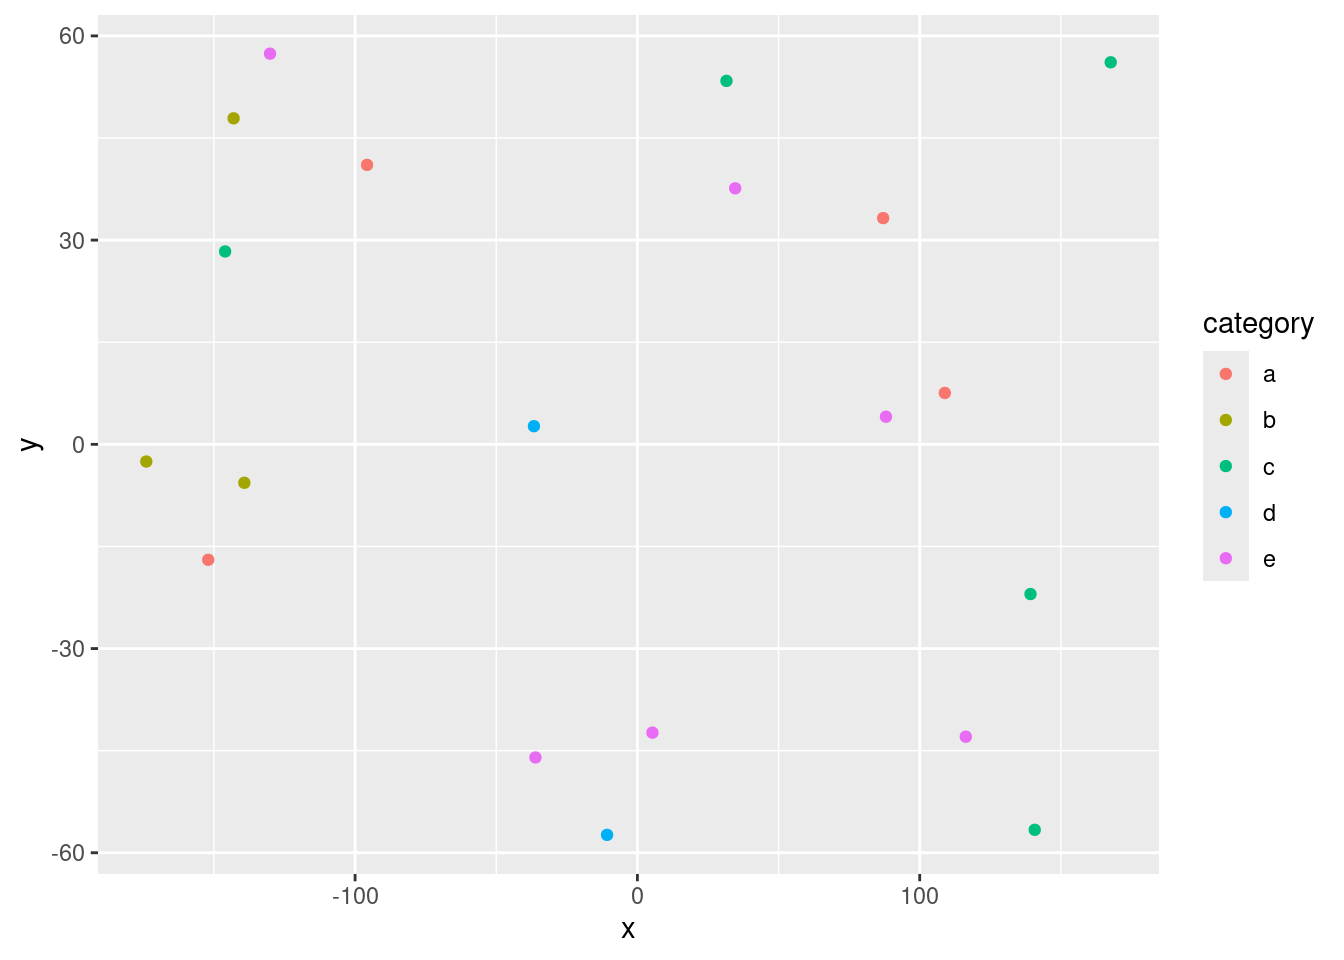
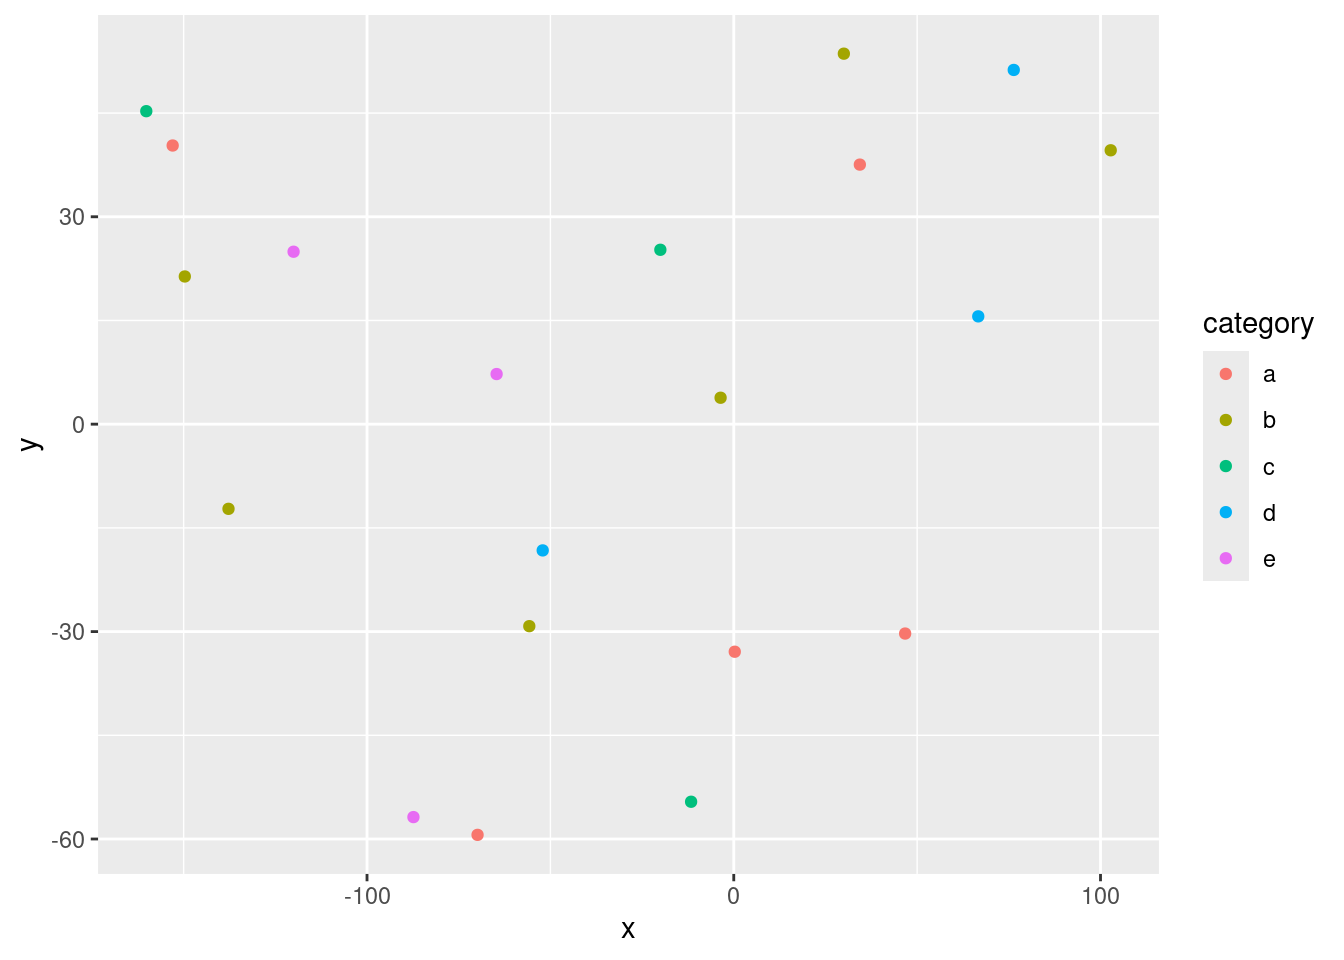
Built site for gh-pages

diff --git a/index.html b/index.html
@@ -266,74 +266,74 @@ pre > code.sourceCode > span > a:first-child::before { text-decoration: underlin
 </thead>
 <tbody>
 <tr class="odd">
-<td style="text-align: center;">87.06</td>
-<td style="text-align: center;">33.23</td>
-<td style="text-align: center;">16.75</td>
-<td style="text-align: center;">a</td>
-<td style="text-align: center;">-0.24</td>
-</tr>
-<tr class="even">
-<td style="text-align: center;">167.65</td>
-<td style="text-align: center;">56.12</td>
-<td style="text-align: center;">11.68</td>
-<td style="text-align: center;">c</td>
-<td style="text-align: center;">0.12</td>
-</tr>
-<tr class="odd">
-<td style="text-align: center;">-10.75</td>
-<td style="text-align: center;">-57.37</td>
-<td style="text-align: center;">5.94</td>
+<td style="text-align: center;">66.67</td>
+<td style="text-align: center;">15.59</td>
+<td style="text-align: center;">11.30</td>
 <td style="text-align: center;">d</td>
-<td style="text-align: center;">0.23</td>
+<td style="text-align: center;">-0.39</td>
 </tr>
 <tr class="even">
-<td style="text-align: center;">-146.03</td>
-<td style="text-align: center;">28.33</td>
-<td style="text-align: center;">12.77</td>
+<td style="text-align: center;">-69.86</td>
+<td style="text-align: center;">-59.40</td>
+<td style="text-align: center;">19.99</td>
+<td style="text-align: center;">a</td>
+<td style="text-align: center;">-0.53</td>
+</tr>
+<tr class="odd">
+<td style="text-align: center;">0.27</td>
+<td style="text-align: center;">-32.91</td>
+<td style="text-align: center;">12.72</td>
+<td style="text-align: center;">a</td>
+<td style="text-align: center;">0.69</td>
+</tr>
+<tr class="even">
+<td style="text-align: center;">76.34</td>
+<td style="text-align: center;">51.24</td>
+<td style="text-align: center;">15.35</td>
+<td style="text-align: center;">d</td>
+<td style="text-align: center;">1.08</td>
+</tr>
+<tr class="odd">
+<td style="text-align: center;">-152.99</td>
+<td style="text-align: center;">40.31</td>
+<td style="text-align: center;">13.51</td>
+<td style="text-align: center;">a</td>
+<td style="text-align: center;">2.47</td>
+</tr>
+<tr class="even">
+<td style="text-align: center;">-137.77</td>
+<td style="text-align: center;">-12.24</td>
+<td style="text-align: center;">15.26</td>
+<td style="text-align: center;">b</td>
+<td style="text-align: center;">-0.90</td>
+</tr>
+<tr class="odd">
+<td style="text-align: center;">-64.66</td>
+<td style="text-align: center;">7.25</td>
+<td style="text-align: center;">10.86</td>
+<td style="text-align: center;">e</td>
+<td style="text-align: center;">0.11</td>
+</tr>
+<tr class="even">
+<td style="text-align: center;">-20.02</td>
+<td style="text-align: center;">25.23</td>
+<td style="text-align: center;">19.50</td>
 <td style="text-align: center;">c</td>
-<td style="text-align: center;">0.35</td>
+<td style="text-align: center;">0.83</td>
 </tr>
 <tr class="odd">
-<td style="text-align: center;">-143.02</td>
-<td style="text-align: center;">47.89</td>
-<td style="text-align: center;">19.06</td>
-<td style="text-align: center;">b</td>
-<td style="text-align: center;">1.12</td>
+<td style="text-align: center;">-160.18</td>
+<td style="text-align: center;">45.27</td>
+<td style="text-align: center;">7.34</td>
+<td style="text-align: center;">c</td>
+<td style="text-align: center;">-0.53</td>
 </tr>
 <tr class="even">
-<td style="text-align: center;">-173.95</td>
-<td style="text-align: center;">-2.52</td>
-<td style="text-align: center;">9.60</td>
-<td style="text-align: center;">b</td>
-<td style="text-align: center;">-0.96</td>
-</tr>
-<tr class="odd">
-<td style="text-align: center;">-152.02</td>
-<td style="text-align: center;">-16.96</td>
-<td style="text-align: center;">15.54</td>
-<td style="text-align: center;">a</td>
-<td style="text-align: center;">2.29</td>
-</tr>
-<tr class="even">
-<td style="text-align: center;">108.89</td>
-<td style="text-align: center;">7.54</td>
-<td style="text-align: center;">9.37</td>
-<td style="text-align: center;">a</td>
-<td style="text-align: center;">-0.11</td>
-</tr>
-<tr class="odd">
-<td style="text-align: center;">34.64</td>
-<td style="text-align: center;">37.61</td>
-<td style="text-align: center;">14.00</td>
+<td style="text-align: center;">-87.34</td>
+<td style="text-align: center;">-56.83</td>
+<td style="text-align: center;">7.06</td>
 <td style="text-align: center;">e</td>
-<td style="text-align: center;">1.04</td>
-</tr>
-<tr class="even">
-<td style="text-align: center;">5.32</td>
-<td style="text-align: center;">-42.35</td>
-<td style="text-align: center;">5.32</td>
-<td style="text-align: center;">e</td>
-<td style="text-align: center;">-0.95</td>
+<td style="text-align: center;">-0.32</td>
 </tr>
 </tbody>
 </table>
@@ -355,8 +355,8 @@ pre > code.sourceCode > span > a:first-child::before { text-decoration: underlin
 <span id="cb5-4"><a href="#cb5-4" aria-hidden="true" tabindex="-1"></a>  <span class="fu">addPopups</span>(<span class="sc">~</span>x[<span class="dv">2</span>], <span class="sc">~</span>y[<span class="dv">2</span>], <span class="st">"Random popup"</span>)</span>
 <span id="cb5-5"><a href="#cb5-5" aria-hidden="true" tabindex="-1"></a>m  <span class="co"># a map with the default OSM tile layer</span></span></code><button title="Copy to Clipboard" class="code-copy-button"><i class="bi"></i></button></pre></div>
 <div class="cell-output-display">
-<div class="leaflet html-widget html-fill-item" id="htmlwidget-0c6f2009b111cf44b941" style="width:100%;height:325px;"></div>
-<script type="application/json" data-for="htmlwidget-0c6f2009b111cf44b941">{"x":{"options":{"crs":{"crsClass":"L.CRS.EPSG3857","code":null,"proj4def":null,"projectedBounds":null,"options":{}}},"calls":[{"method":"addTiles","args":["https://{s}.tile.openstreetmap.org/{z}/{x}/{y}.png",null,null,{"minZoom":0,"maxZoom":18,"tileSize":256,"subdomains":"abc","errorTileUrl":"","tms":false,"noWrap":false,"zoomOffset":0,"zoomReverse":false,"opacity":1,"zIndex":1,"detectRetina":false,"attribution":"&copy; <a href=\"https://openstreetmap.org/copyright/\">OpenStreetMap<\/a>,  <a href=\"https://opendatacommons.org/licenses/odbl/\">ODbL<\/a>"}]},{"method":"addCircleMarkers","args":[[33.23295760899782,56.12000877968967,-57.36975442618132,28.33170904777944,47.89042490534484,-2.523856563493609,-16.96155932731926,7.54439483396709,37.60910524986684,-42.34646790660918,2.665181290358305,-5.650086533278227,-56.62638025358319,-46.00017788819969,-42.9475509468466,4.058134462684393,53.39091980829835,41.04939619079232,57.38817145116627,-21.99157266877592],[87.05679930746555,167.6515419501811,-10.74633663520217,-146.0306309256703,-143.0242634564638,-173.9533870015293,-152.0175786875188,108.8869348727167,34.64079732075334,5.316131897270679,-36.65323745459318,-139.2221875023097,140.7440909184515,-36.11687150783837,116.3140589743853,88.03450279869139,31.55034310184419,-95.75396429747343,-130.1241415645927,139.236298520118],[16.75209211767651,11.67524256627075,5.936204182216898,12.76576337986626,19.06126494752243,9.604636501753703,15.54484777036123,9.370464532403275,13.99692395119928,5.315834585344419,16.21972754481249,12.93184489943087,19.98981372453272,13.21856181137264,18.27005792874843,18.04920373135246,12.32520453515463,11.07389373588376,17.1550671372097,15.68130962783471],null,null,{"interactive":true,"className":"","stroke":true,"color":["a","c","d","c","b","b","a","a","e","e","d","b","c","e","e","e","c","a","e","c"],"weight":5,"opacity":0.5,"fill":true,"fillColor":["a","c","d","c","b","b","a","a","e","e","d","b","c","e","e","e","c","a","e","c"],"fillOpacity":0.2},null,null,null,null,null,{"interactive":false,"permanent":false,"direction":"auto","opacity":1,"offset":[0,0],"textsize":"10px","textOnly":false,"className":"","sticky":true},null]},{"method":"addPopups","args":[56.12000877968967,167.6515419501811,"Random popup",null,null,{"maxWidth":300,"minWidth":50,"autoPan":true,"keepInView":false,"closeButton":true,"className":""}]}],"limits":{"lat":[-57.36975442618132,57.38817145116627],"lng":[-173.9533870015293,167.6515419501811]}},"evals":[],"jsHooks":[]}</script>
+<div class="leaflet html-widget html-fill-item" id="htmlwidget-3703a0fd2d595db7ab56" style="width:100%;height:325px;"></div>
+<script type="application/json" data-for="htmlwidget-3703a0fd2d595db7ab56">{"x":{"options":{"crs":{"crsClass":"L.CRS.EPSG3857","code":null,"proj4def":null,"projectedBounds":null,"options":{}}},"calls":[{"method":"addTiles","args":["https://{s}.tile.openstreetmap.org/{z}/{x}/{y}.png",null,null,{"minZoom":0,"maxZoom":18,"tileSize":256,"subdomains":"abc","errorTileUrl":"","tms":false,"noWrap":false,"zoomOffset":0,"zoomReverse":false,"opacity":1,"zIndex":1,"detectRetina":false,"attribution":"&copy; <a href=\"https://openstreetmap.org/copyright/\">OpenStreetMap<\/a>,  <a href=\"https://opendatacommons.org/licenses/odbl/\">ODbL<\/a>"}]},{"method":"addCircleMarkers","args":[[15.59323567897081,-59.40157547593117,-32.9122025705874,51.23656684532762,40.30750083737075,-12.24391534924507,7.251140819862485,25.22511307150126,45.27273215353489,-56.83028848841786,24.94417439214885,37.54382274113595,39.61559727787971,3.824638919904828,21.36445853859186,53.59030522406101,-54.61127922870219,-18.25762099586427,-29.2143695242703,-30.28263651765883],[66.66622744873166,-69.85936283133924,0.2728187944740057,76.34435757994652,-152.9902476724237,-137.7677580714226,-64.66477347537875,-20.01533584669232,-160.1846635714173,-87.34079511836171,-120.0239736400545,34.3784378003329,102.7838138490915,-3.589752456173301,-149.6816368214786,30.01766223460436,-11.63024176843464,-52.093874970451,-55.74827595613897,46.73103424720466],[11.30054210894741,19.99042612384073,12.71530889789574,15.34650445915759,13.5139032790903,15.2590260526631,10.86077986983582,19.49585707858205,7.336837605107576,7.060154156060889,5.797931369161233,7.341090949485078,14.47962460923009,9.88827619003132,13.72195364441723,12.50436188653111,11.3100285618566,18.30440748133697,17.45392869692296,11.80493565974757],null,null,{"interactive":true,"className":"","stroke":true,"color":["d","a","a","d","a","b","e","c","c","e","e","a","b","b","b","b","c","d","b","a"],"weight":5,"opacity":0.5,"fill":true,"fillColor":["d","a","a","d","a","b","e","c","c","e","e","a","b","b","b","b","c","d","b","a"],"fillOpacity":0.2},null,null,null,null,null,{"interactive":false,"permanent":false,"direction":"auto","opacity":1,"offset":[0,0],"textsize":"10px","textOnly":false,"className":"","sticky":true},null]},{"method":"addPopups","args":[-59.40157547593117,-69.85936283133924,"Random popup",null,null,{"maxWidth":300,"minWidth":50,"autoPan":true,"keepInView":false,"closeButton":true,"className":""}]}],"limits":{"lat":[-59.40157547593117,53.59030522406101],"lng":[-160.1846635714173,102.7838138490915]}},"evals":[],"jsHooks":[]}</script>
 <p>Map of completely random data</p>
 </div>
 </div>
@@ -379,8 +379,8 @@ pre > code.sourceCode > span > a:first-child::before { text-decoration: underlin
 <span id="cb7-2"><a href="#cb7-2" aria-hidden="true" tabindex="-1"></a><span class="fu">dygraph</span>(nhtemp, <span class="at">main =</span> <span class="st">"New Haven Temperatures"</span>) <span class="sc">|&gt;</span> </span>
 <span id="cb7-3"><a href="#cb7-3" aria-hidden="true" tabindex="-1"></a>  <span class="fu">dyRangeSelector</span>(<span class="at">dateWindow =</span> <span class="fu">c</span>(<span class="st">"1920-01-01"</span>, <span class="st">"1960-01-01"</span>)) </span></code><button title="Copy to Clipboard" class="code-copy-button"><i class="bi"></i></button></pre></div>
 <div class="cell-output-display">
-<div class="dygraphs html-widget html-fill-item" id="htmlwidget-3198c5bbfa3fb9bfdf4d" style="width:100%;height:464px;"></div>
-<script type="application/json" data-for="htmlwidget-3198c5bbfa3fb9bfdf4d">{"x":{"attrs":{"title":"New Haven Temperatures","labels":["year","V1"],"legend":"auto","retainDateWindow":false,"axes":{"x":{"pixelsPerLabel":60}},"showRangeSelector":true,"dateWindow":["1920-01-01T00:00:00.000Z","1960-01-01T00:00:00.000Z"],"rangeSelectorHeight":40,"rangeSelectorPlotFillColor":" #A7B1C4","rangeSelectorPlotStrokeColor":"#808FAB","interactionModel":"Dygraph.Interaction.defaultModel"},"scale":"yearly","annotations":[],"shadings":[],"events":[],"format":"date","data":[["1912-01-01T00:00:00.000Z","1913-01-01T00:00:00.000Z","1914-01-01T00:00:00.000Z","1915-01-01T00:00:00.000Z","1916-01-01T00:00:00.000Z","1917-01-01T00:00:00.000Z","1918-01-01T00:00:00.000Z","1919-01-01T00:00:00.000Z","1920-01-01T00:00:00.000Z","1921-01-01T00:00:00.000Z","1922-01-01T00:00:00.000Z","1923-01-01T00:00:00.000Z","1924-01-01T00:00:00.000Z","1925-01-01T00:00:00.000Z","1926-01-01T00:00:00.000Z","1927-01-01T00:00:00.000Z","1928-01-01T00:00:00.000Z","1929-01-01T00:00:00.000Z","1930-01-01T00:00:00.000Z","1931-01-01T00:00:00.000Z","1932-01-01T00:00:00.000Z","1933-01-01T00:00:00.000Z","1934-01-01T00:00:00.000Z","1935-01-01T00:00:00.000Z","1936-01-01T00:00:00.000Z","1937-01-01T00:00:00.000Z","1938-01-01T00:00:00.000Z","1939-01-01T00:00:00.000Z","1940-01-01T00:00:00.000Z","1941-01-01T00:00:00.000Z","1942-01-01T00:00:00.000Z","1943-01-01T00:00:00.000Z","1944-01-01T00:00:00.000Z","1945-01-01T00:00:00.000Z","1946-01-01T00:00:00.000Z","1947-01-01T00:00:00.000Z","1948-01-01T00:00:00.000Z","1949-01-01T00:00:00.000Z","1950-01-01T00:00:00.000Z","1951-01-01T00:00:00.000Z","1952-01-01T00:00:00.000Z","1953-01-01T00:00:00.000Z","1954-01-01T00:00:00.000Z","1955-01-01T00:00:00.000Z","1956-01-01T00:00:00.000Z","1957-01-01T00:00:00.000Z","1958-01-01T00:00:00.000Z","1959-01-01T00:00:00.000Z","1960-01-01T00:00:00.000Z","1961-01-01T00:00:00.000Z","1962-01-01T00:00:00.000Z","1963-01-01T00:00:00.000Z","1964-01-01T00:00:00.000Z","1965-01-01T00:00:00.000Z","1966-01-01T00:00:00.000Z","1967-01-01T00:00:00.000Z","1968-01-01T00:00:00.000Z","1969-01-01T00:00:00.000Z","1970-01-01T00:00:00.000Z","1971-01-01T00:00:00.000Z"],[49.9,52.3,49.4,51.1,49.4,47.9,49.8,50.9,49.3,51.9,50.8,49.6,49.3,50.6,48.4,50.7,50.9,50.6,51.5,52.8,51.8,51.1,49.8,50.2,50.4,51.6,51.8,50.9,48.8,51.7,51,50.6,51.7,51.5,52.1,51.3,51,54,51.4,52.7,53.1,54.6,52,52,50.9,52.6,50.2,52.6,51.6,51.9,50.5,50.9,51.7,51.4,51.7,50.8,51.9,51.8,51.9,53]]},"evals":["attrs.interactionModel"],"jsHooks":[]}</script>
+<div class="dygraphs html-widget html-fill-item" id="htmlwidget-4115b6155e63dadfa743" style="width:100%;height:464px;"></div>
+<script type="application/json" data-for="htmlwidget-4115b6155e63dadfa743">{"x":{"attrs":{"title":"New Haven Temperatures","labels":["year","V1"],"legend":"auto","retainDateWindow":false,"axes":{"x":{"pixelsPerLabel":60}},"showRangeSelector":true,"dateWindow":["1920-01-01T00:00:00.000Z","1960-01-01T00:00:00.000Z"],"rangeSelectorHeight":40,"rangeSelectorPlotFillColor":" #A7B1C4","rangeSelectorPlotStrokeColor":"#808FAB","interactionModel":"Dygraph.Interaction.defaultModel"},"scale":"yearly","annotations":[],"shadings":[],"events":[],"format":"date","data":[["1912-01-01T00:00:00.000Z","1913-01-01T00:00:00.000Z","1914-01-01T00:00:00.000Z","1915-01-01T00:00:00.000Z","1916-01-01T00:00:00.000Z","1917-01-01T00:00:00.000Z","1918-01-01T00:00:00.000Z","1919-01-01T00:00:00.000Z","1920-01-01T00:00:00.000Z","1921-01-01T00:00:00.000Z","1922-01-01T00:00:00.000Z","1923-01-01T00:00:00.000Z","1924-01-01T00:00:00.000Z","1925-01-01T00:00:00.000Z","1926-01-01T00:00:00.000Z","1927-01-01T00:00:00.000Z","1928-01-01T00:00:00.000Z","1929-01-01T00:00:00.000Z","1930-01-01T00:00:00.000Z","1931-01-01T00:00:00.000Z","1932-01-01T00:00:00.000Z","1933-01-01T00:00:00.000Z","1934-01-01T00:00:00.000Z","1935-01-01T00:00:00.000Z","1936-01-01T00:00:00.000Z","1937-01-01T00:00:00.000Z","1938-01-01T00:00:00.000Z","1939-01-01T00:00:00.000Z","1940-01-01T00:00:00.000Z","1941-01-01T00:00:00.000Z","1942-01-01T00:00:00.000Z","1943-01-01T00:00:00.000Z","1944-01-01T00:00:00.000Z","1945-01-01T00:00:00.000Z","1946-01-01T00:00:00.000Z","1947-01-01T00:00:00.000Z","1948-01-01T00:00:00.000Z","1949-01-01T00:00:00.000Z","1950-01-01T00:00:00.000Z","1951-01-01T00:00:00.000Z","1952-01-01T00:00:00.000Z","1953-01-01T00:00:00.000Z","1954-01-01T00:00:00.000Z","1955-01-01T00:00:00.000Z","1956-01-01T00:00:00.000Z","1957-01-01T00:00:00.000Z","1958-01-01T00:00:00.000Z","1959-01-01T00:00:00.000Z","1960-01-01T00:00:00.000Z","1961-01-01T00:00:00.000Z","1962-01-01T00:00:00.000Z","1963-01-01T00:00:00.000Z","1964-01-01T00:00:00.000Z","1965-01-01T00:00:00.000Z","1966-01-01T00:00:00.000Z","1967-01-01T00:00:00.000Z","1968-01-01T00:00:00.000Z","1969-01-01T00:00:00.000Z","1970-01-01T00:00:00.000Z","1971-01-01T00:00:00.000Z"],[49.9,52.3,49.4,51.1,49.4,47.9,49.8,50.9,49.3,51.9,50.8,49.6,49.3,50.6,48.4,50.7,50.9,50.6,51.5,52.8,51.8,51.1,49.8,50.2,50.4,51.6,51.8,50.9,48.8,51.7,51,50.6,51.7,51.5,52.1,51.3,51,54,51.4,52.7,53.1,54.6,52,52,50.9,52.6,50.2,52.6,51.6,51.9,50.5,50.9,51.7,51.4,51.7,50.8,51.9,51.8,51.9,53]]},"evals":["attrs.interactionModel"],"jsHooks":[]}</script>
 </div>
 </div>
 </section>
